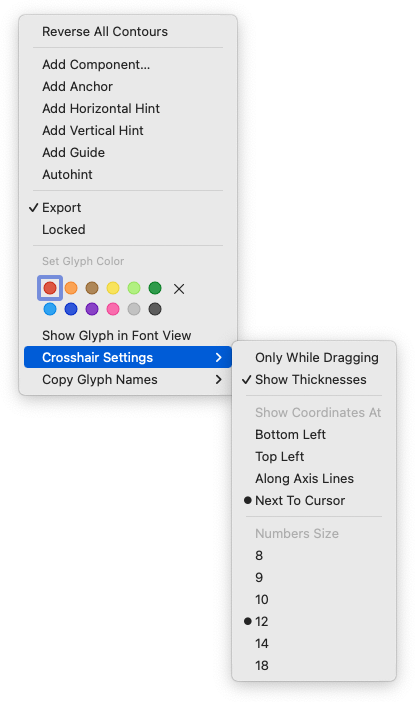
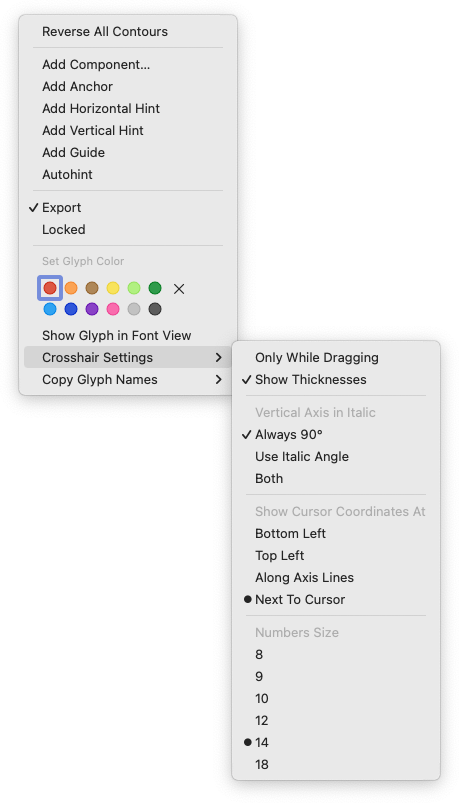
Update readme

Changed region(s): [[0.0289, 0.0299, 0.9253, 0.9872], [0.9542, 0.4188, 0.9831, 0.9573]]

diff --git a/ShowCrosshair.glyphsReporter/Contents/Resources/plugin.py b/ShowCrosshair.glyphsReporter/Contents/Resources/plugin.py
@@ -213,12 +213,12 @@ class ShowCrosshair(ReporterPlugin):
 		contextMenus.append({"menu": NSMenuItem.separatorItem()})
 
 		textSizesTitle = {
-			'en': u"Numbers Size", 
-			'de': u"Zahlengröße", 
-			'es': u"Tamaño de números", 
-			'fr': u"Taille des chiffres",
-			'jp': u"数字サイズ",
-			'zh': u"数字大小",
+			'en': u"Text Size", 
+			'de': u"Textgröße", 
+			'es': u"Tamaño del texto", 
+			'fr': u"Taille du texte",
+			'jp': u"フォントサイズ",
+			'zh': u"文字大小",
 			}
 		menu = NSMenuItem.alloc().initWithTitle_action_keyEquivalent_(Glyphs.localize(textSizesTitle), None, "")
 		menu.setEnabled_(False)

diff --git a/README.md b/README.md
@@ -6,6 +6,8 @@ This is a plugin for the [Glyphs font editor](http://glyphsapp.com/) by Georg Se
 
 Depending on your crosshair setting, it shows a crosshair either always, or only while you drag your mouse pointer with the mouse button held down. Switch between states via the context menu: right click and select or deselect *Only While Dragging* (de: *Nur beim Ziehen*, es: *Solo al arrastrar*, fr: *Uniquement pendant le glissement*, jp: *ドラッグ中のみ表示*, zh: *仅在拖动时显示*).
 
+Toggle display of vertical axis when italic axis is set with the context menu option *Vertical Axis in Italic* (de: *Vertikale Achse in Kursivschrift*, es: *Eje vertical en cursiva*, fr: *Axe vertical en italique*, jp: *イタリック時の縦軸*, zh: *斜体纵轴*).
+
 Toggle the display of measurements between intersections with the context menu option *Show Thicknesses* (de: *Dicken anzeigen*, es: *Mostrar grosores*, fr: *Afficher les épaisseurs*, jp: *縦横の太さを表示*, zh: *显示纵横坐标差*).
 
 ![Crosshair options](ToggleCrosshairOptions.png "Toggling Crosshair options in the context menu")
